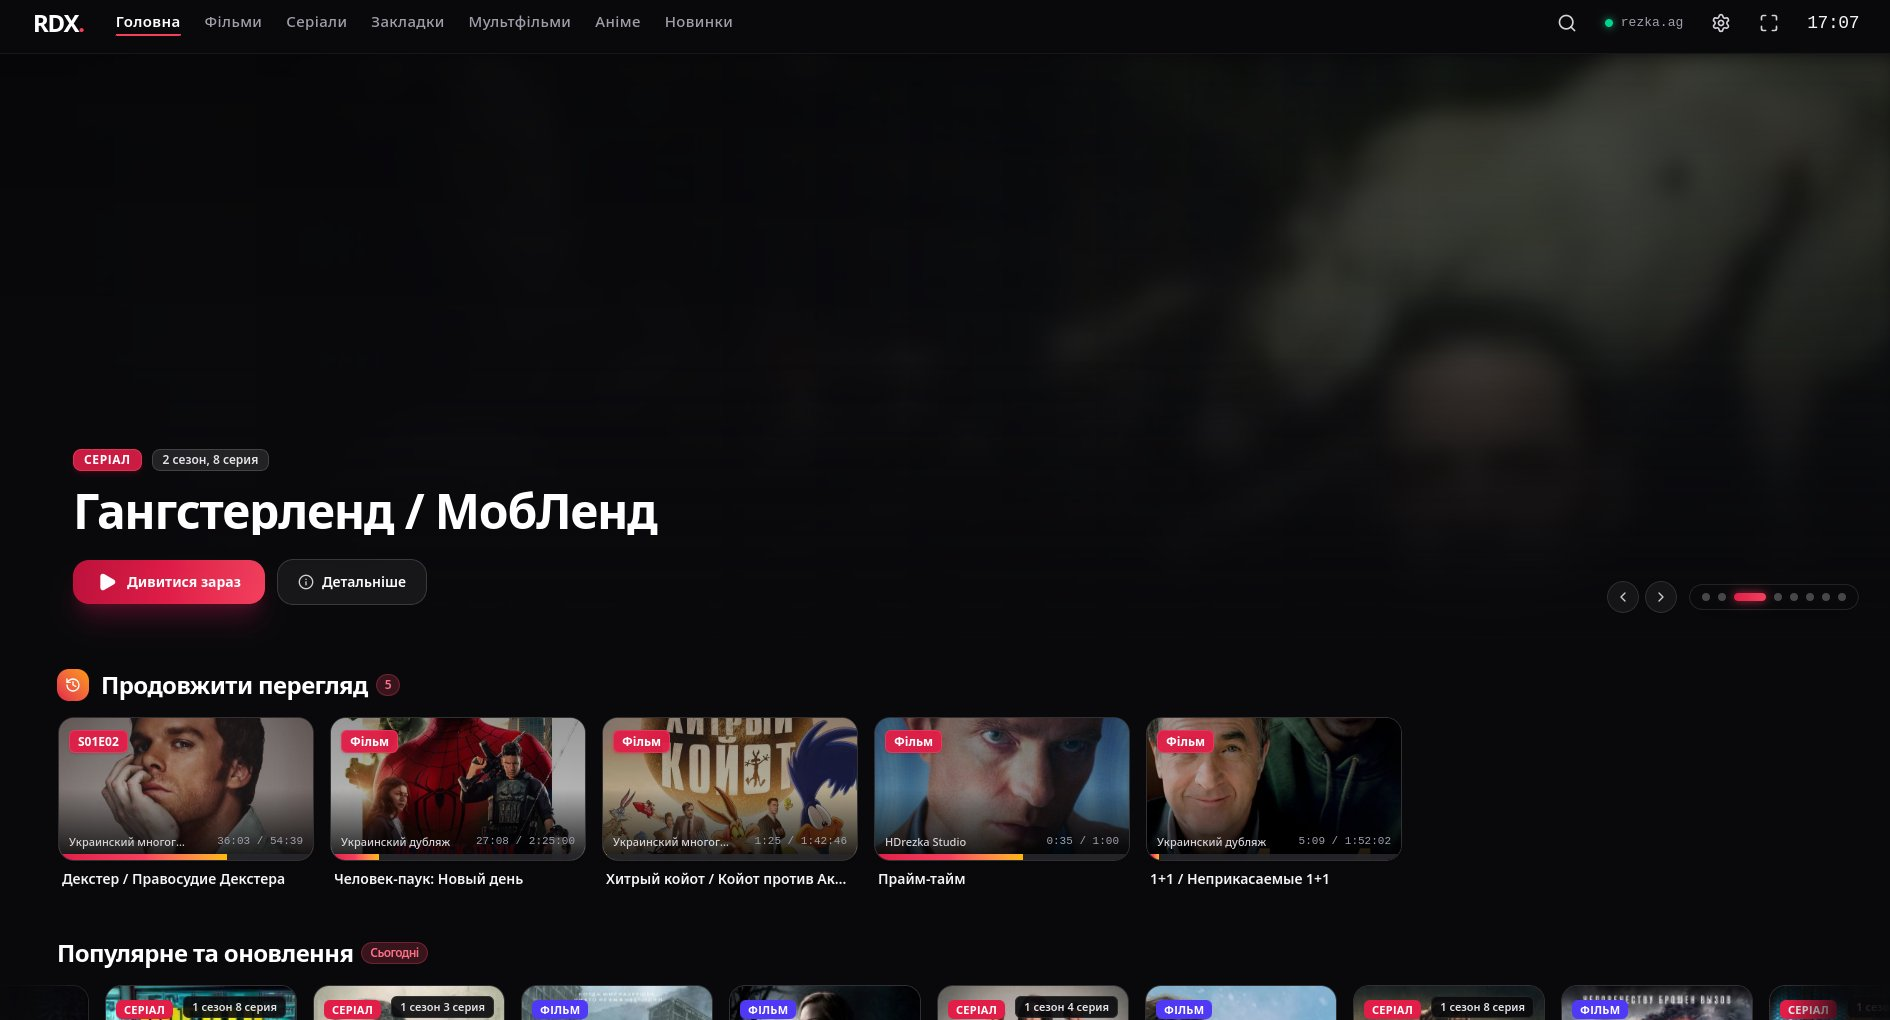
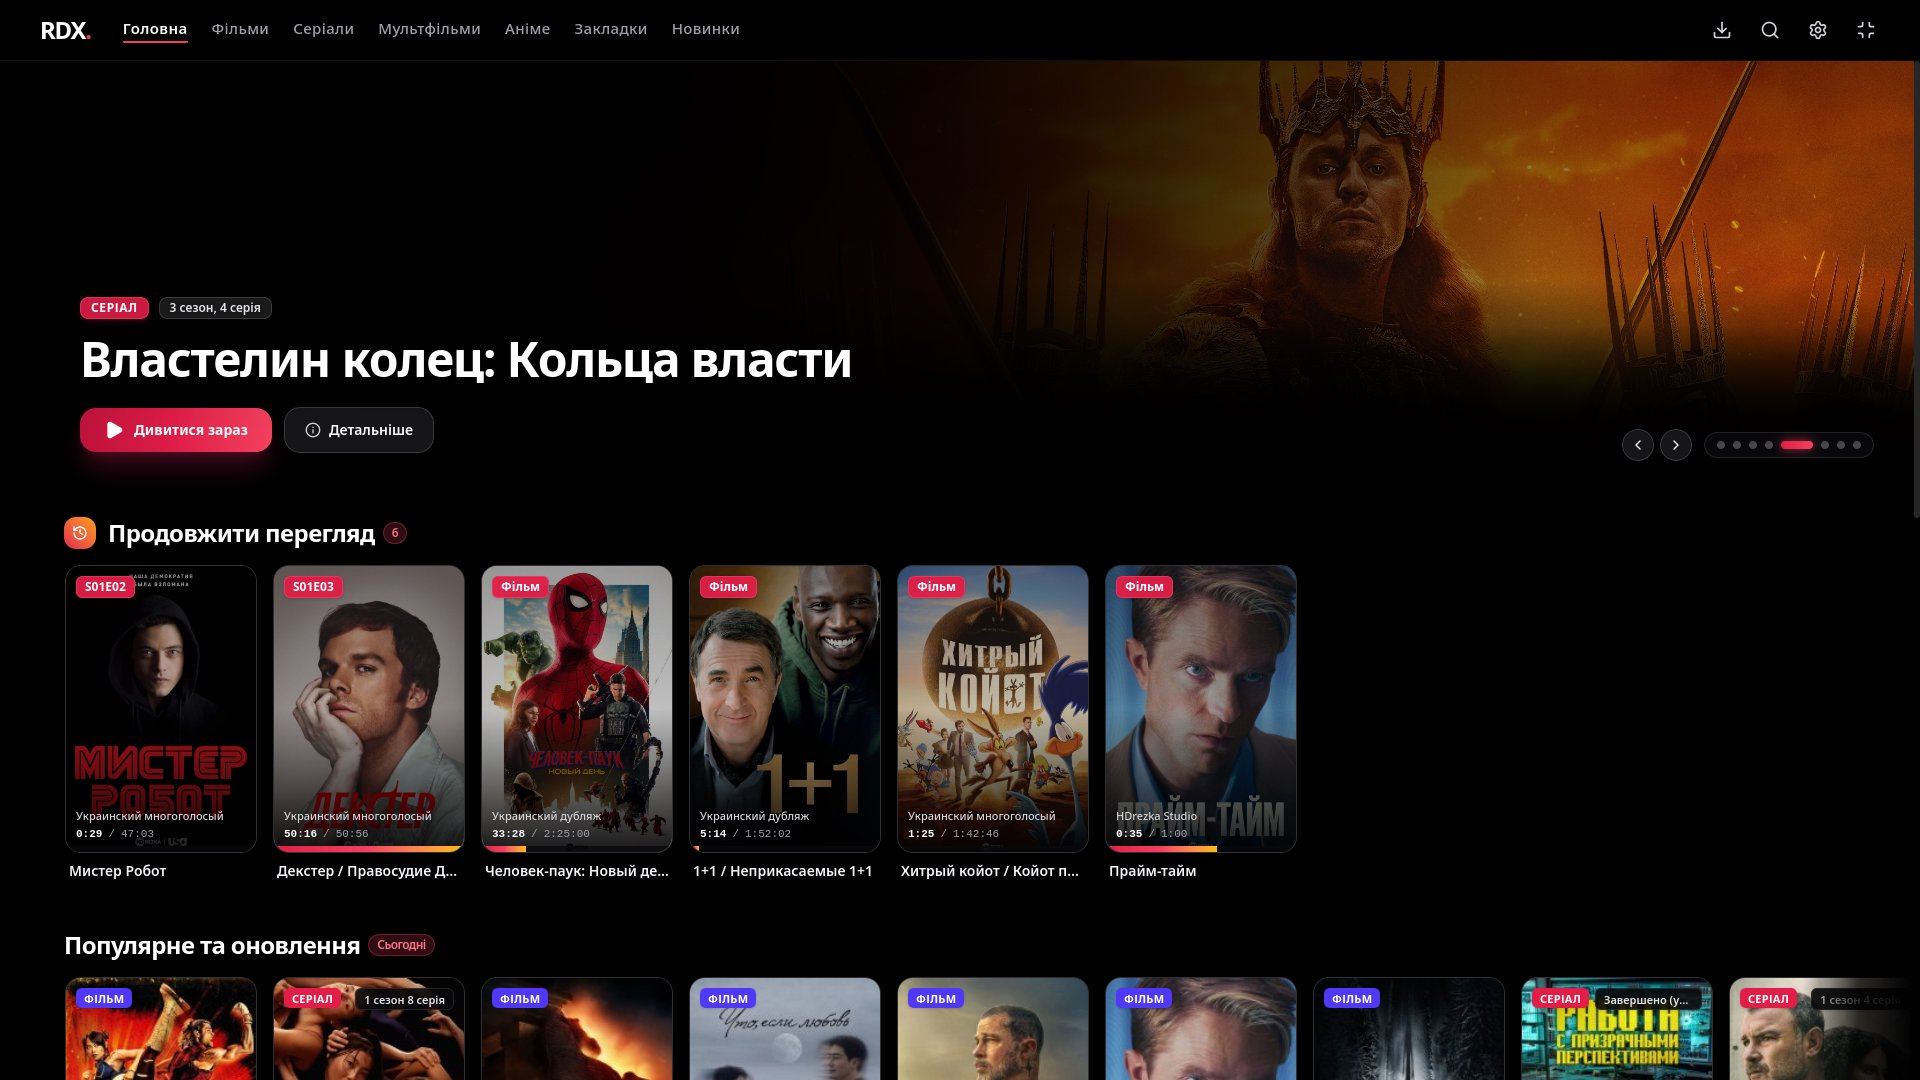
docs: update README screenshots (home & movie details)

diff --git a/README.md b/README.md
@@ -45,8 +45,13 @@
 ## 📸 Скріншоти / Screenshots
 
 <p align="center">
-  <b>Головний екран (Продовжити перегляд з прогресом серій та смарт-стрічки)</b><br/>
+  <b>Головний екран (TMDB Hero-банер, Продовжити перегляд з прогресом та смарт-стрічки)</b><br/>
   <img src="assets/screenshots/home.jpg" width="100%" alt="RDX Home Screen" />
+</p>
+
+<p align="center">
+  <b>Картка релізу (TMDB-бекдроп, вибір української озвучки, завантаження та рекомендації)</b><br/>
+  <img src="assets/screenshots/details.jpg" width="100%" alt="RDX Release Details Screen" />
 </p>
 
 <p align="center">
